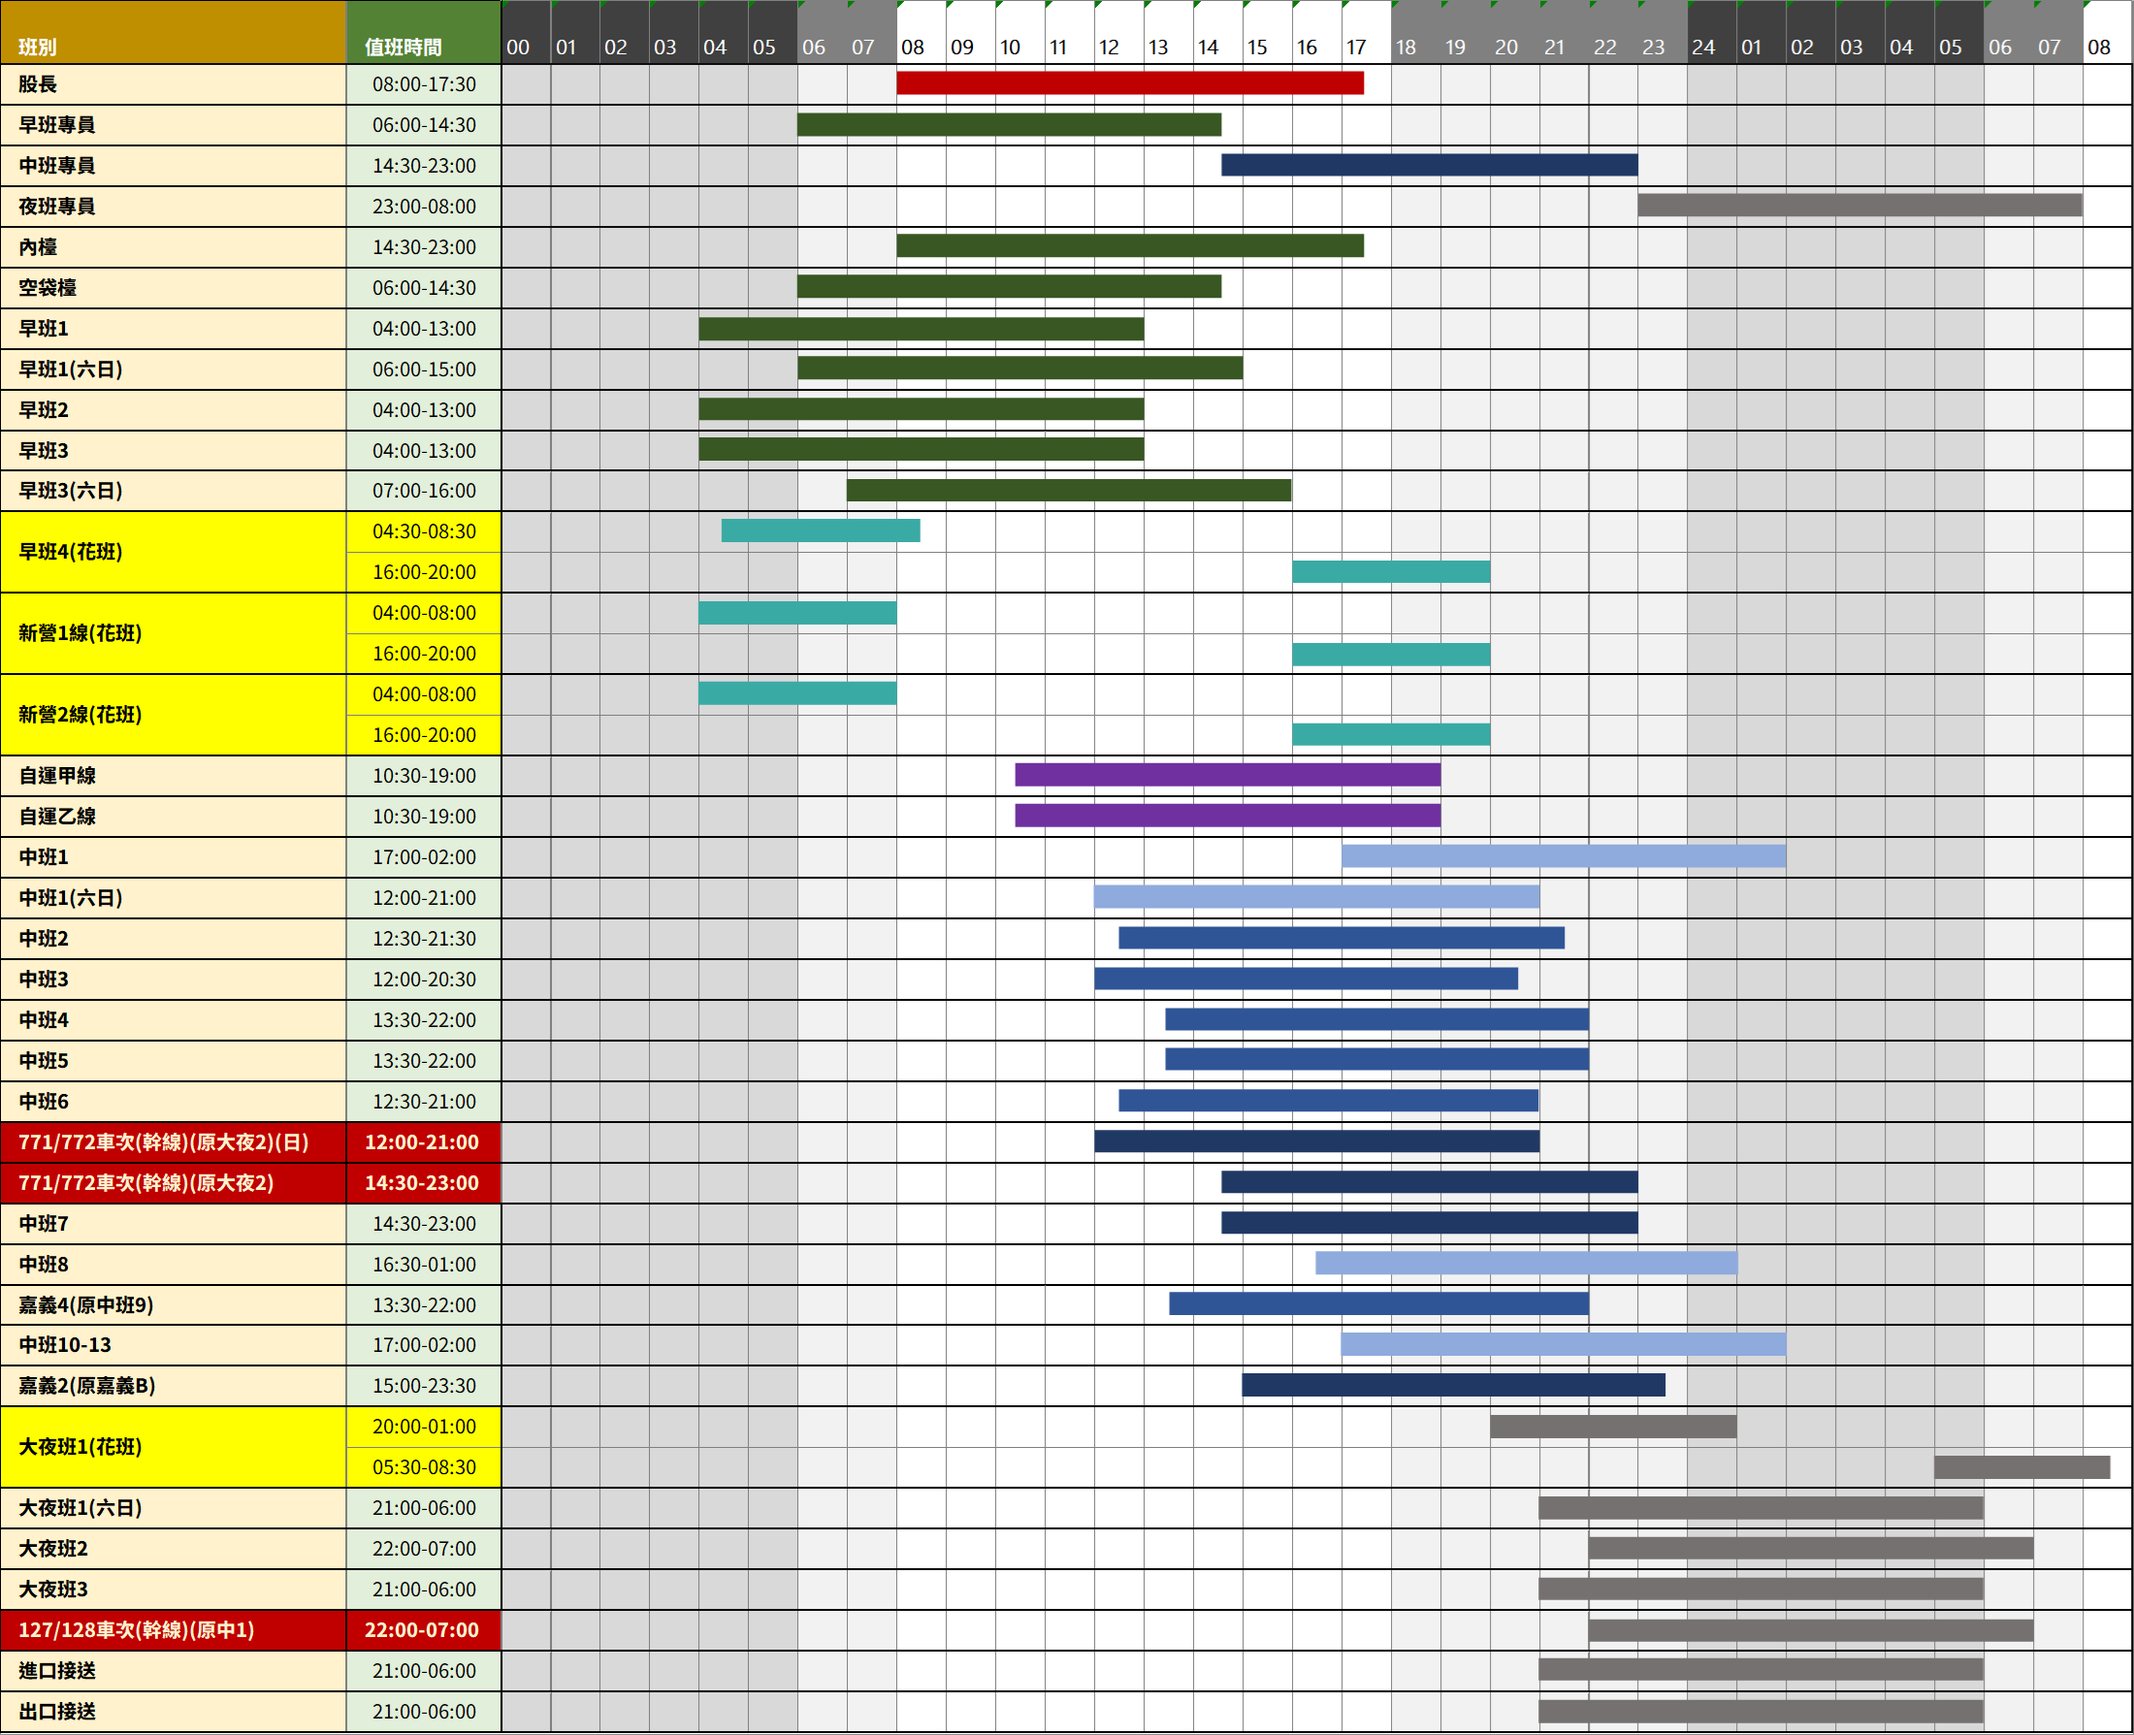
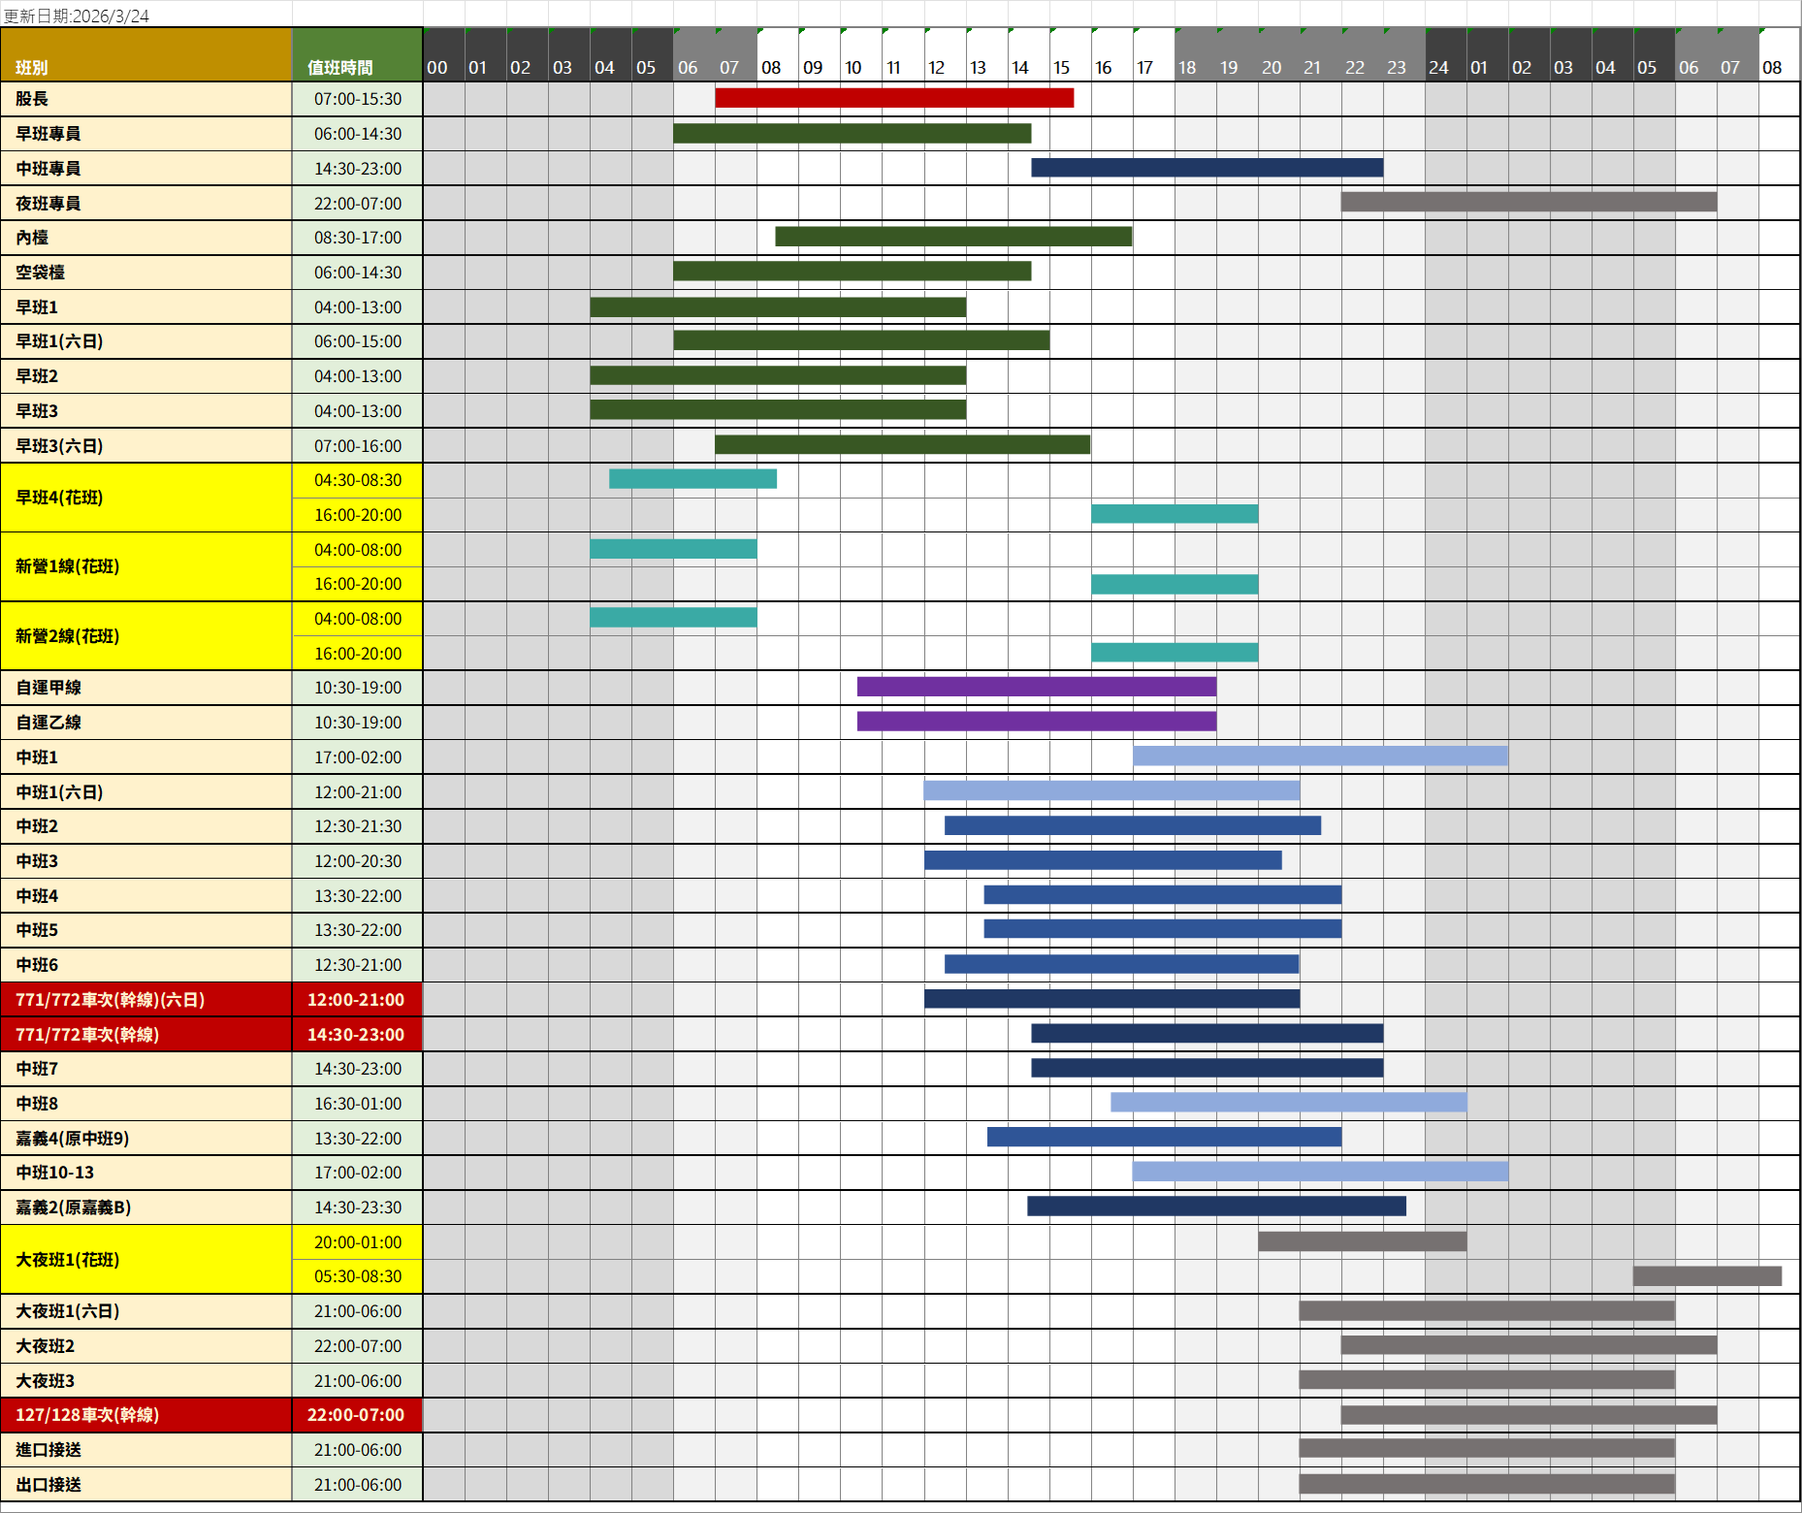
Add files via upload

Changed region(s): [[0.0, 0.0, 1.0, 1.0]]

diff --git a/shift_schedule.html b/shift_schedule.html
@@ -189,7 +189,7 @@
       const shiftTimeNotes = {
         "股　長": "07:00 - 15:30",
         早班專員: "06:00 - 14:30",
-        內檯經辦: "08:00 - 17:30",
+        內檯經辦: "08:30 - 17:00",
         空袋櫃: "06:00 - 14:30",
         "早　班 1": "04:00 - 13:00",
         "早　班 2": "04:00 - 13:00",
@@ -219,7 +219,7 @@
         自運甲線: "10:30 - 19:00",
         自運乙線: "10:30 - 19:00",
         "嘉　義 B": "15:30 - 24:00",
-        "嘉　義 2": "15:00 - 23:30",
+        "嘉　義 2": "14:30 - 23:30",
         "嘉　義 4": "13:30 - 22:00",
         夜班專員: "22:00 - 07:00",
         "大夜班 1": "20:00 - 08:30",

diff --git a/shift_time.html b/shift_time.html
@@ -387,7 +387,7 @@
           [
             "嘉義2(B)",
             "臺南(送快捷郵件)→永康郵局→臺南",
-            new Date(0, 0, 0, 15, 0),
+            new Date(0, 0, 0, 14, 30),
             new Date(0, 0, 0, 18, 0),
           ],
           [
